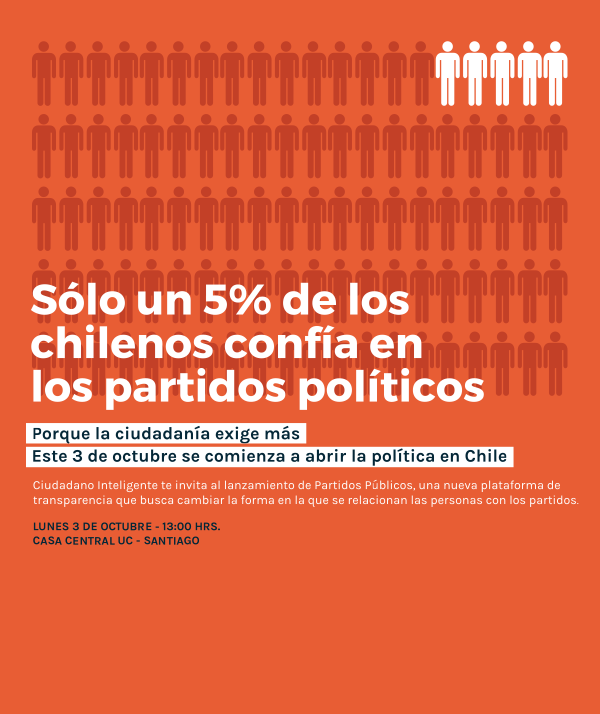
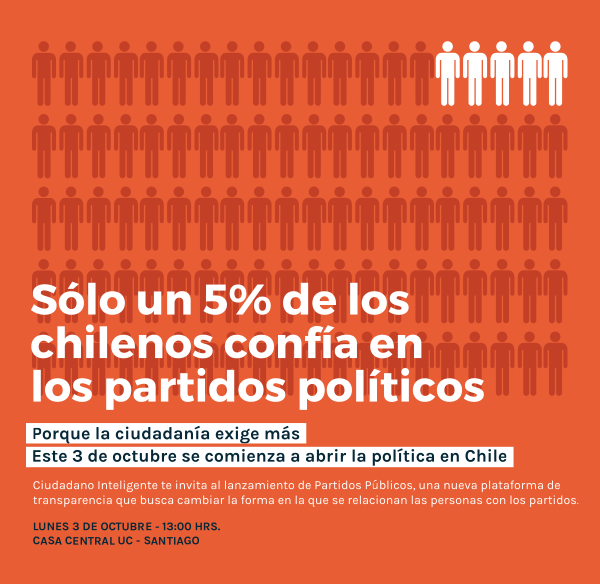
Ajuste de imagen en modal

diff --git a/index.html b/index.html
@@ -4,11 +4,12 @@ layout: default
 <!-- Modal -->
 <div class="modal fade" id="memberModal" tabindex="-1" role="dialog" aria-labelledby="memberModalLabel" aria-hidden="true">
   <div class="modal-dialog">
-    <div class="modal-content hand">
+    <div class="modal-content">
       <div class="modal-header">
         <button type="button" class="close" data-dismiss="modal" aria-label="Close"><span aria-hidden="true">&times;</span></button>
       </div>
       <div class="modal-body">
+      <img class="event" src="img/modalweb.png">
     <a class="btn btn-default btn-block" href="https://welcu.com/ciudadano-inteligente/lanzamiento-partidos-publicos" role="button" target="_blank" onClick="ga('send','event','retora-ticket-modal','click')">Inscríbete aquí</a>
       </div>
 

diff --git a/_sass/_base.scss b/_sass/_base.scss
@@ -326,21 +326,17 @@ img {
     border: none;
     border-radius: 0;
     box-shadow: -5px 5px 0px $nude-light;
-    &.hand{
-            background-image: url("../img/modalweb.png");
-            background-repeat: no-repeat;
-            min-height: 710px;
-    }
     &.sky{
     background-color: $sky-dark;
     min-height: 150px;
     a{
     color: white;
     }
-    }
-    btn{
-    margin-top:20px;
-    }  
+    } 
+}
+
+img.event{
+    
 }
 
 .modal-header{
@@ -351,9 +347,6 @@ img {
     top: 80px;
 }
 
-.modal-body{
-    padding-top: 520px;
-}
 
 /*FOOTER*/
 
